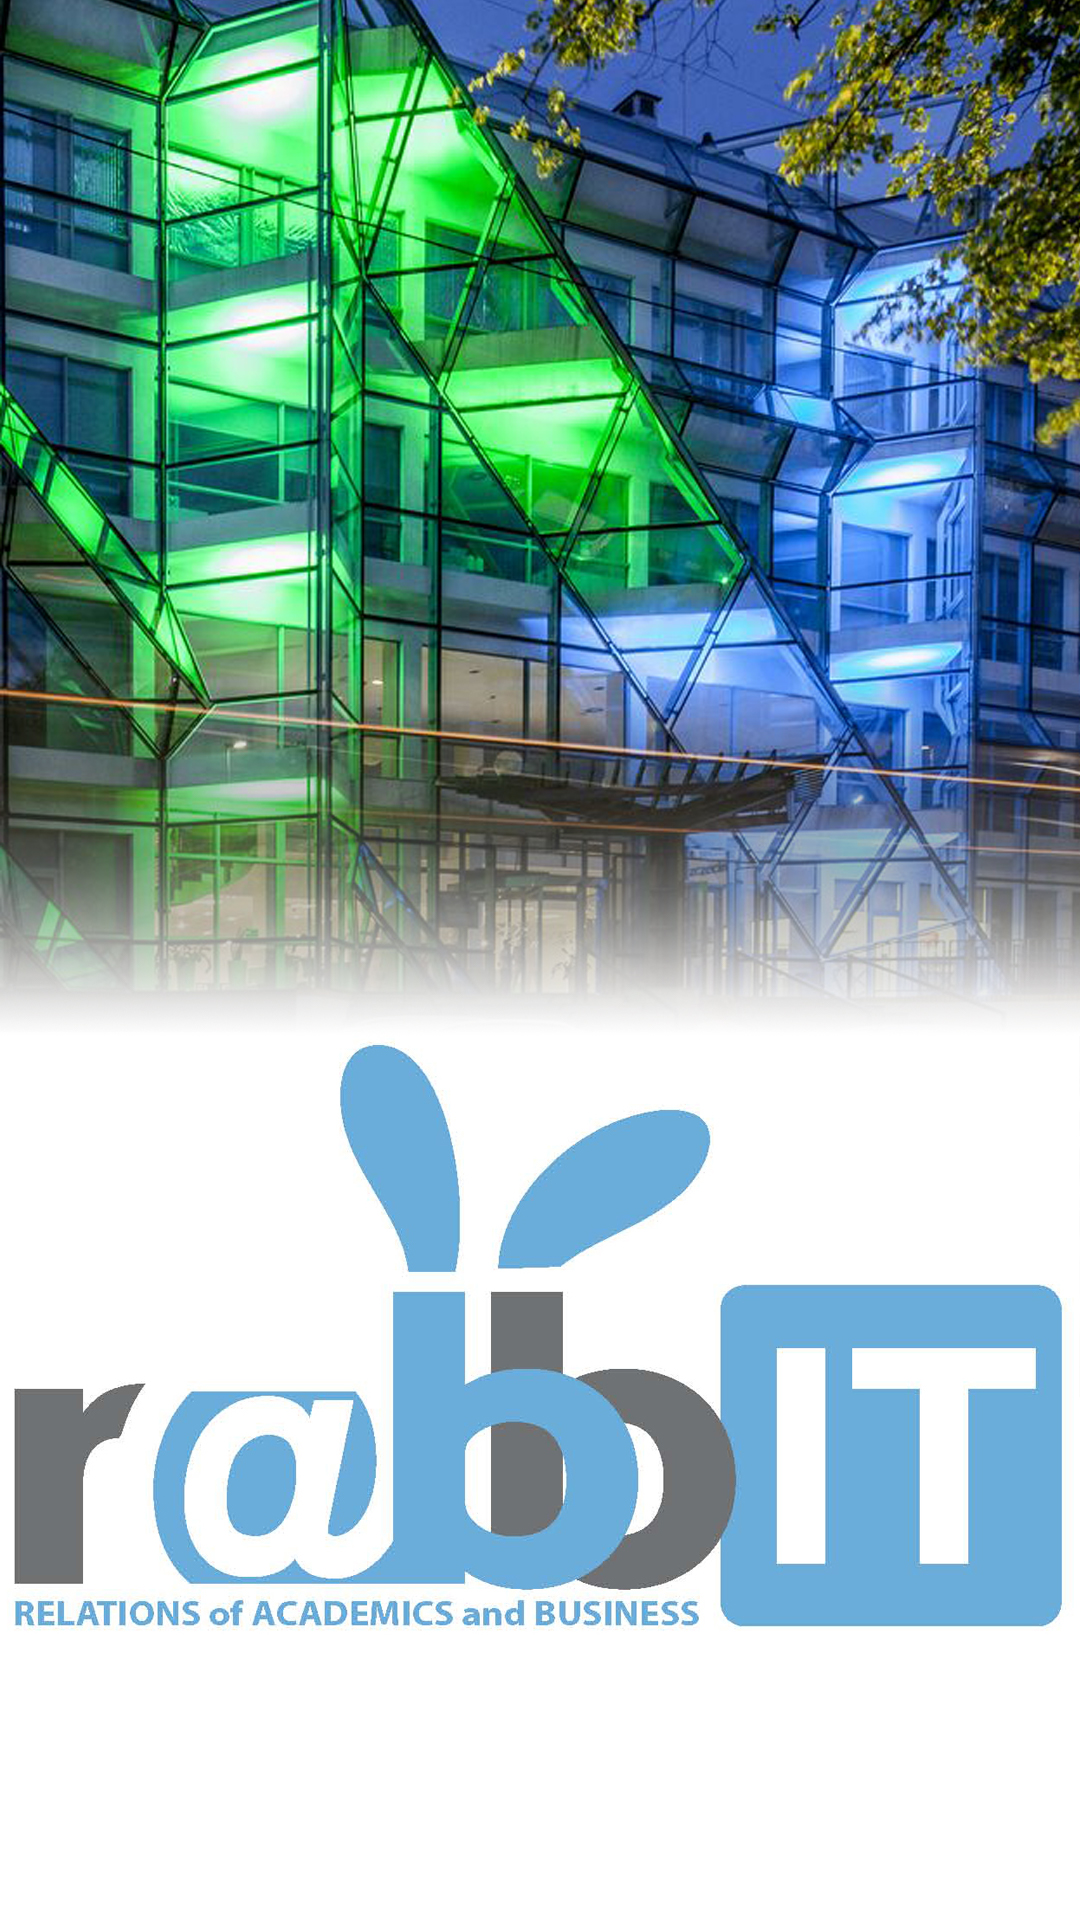
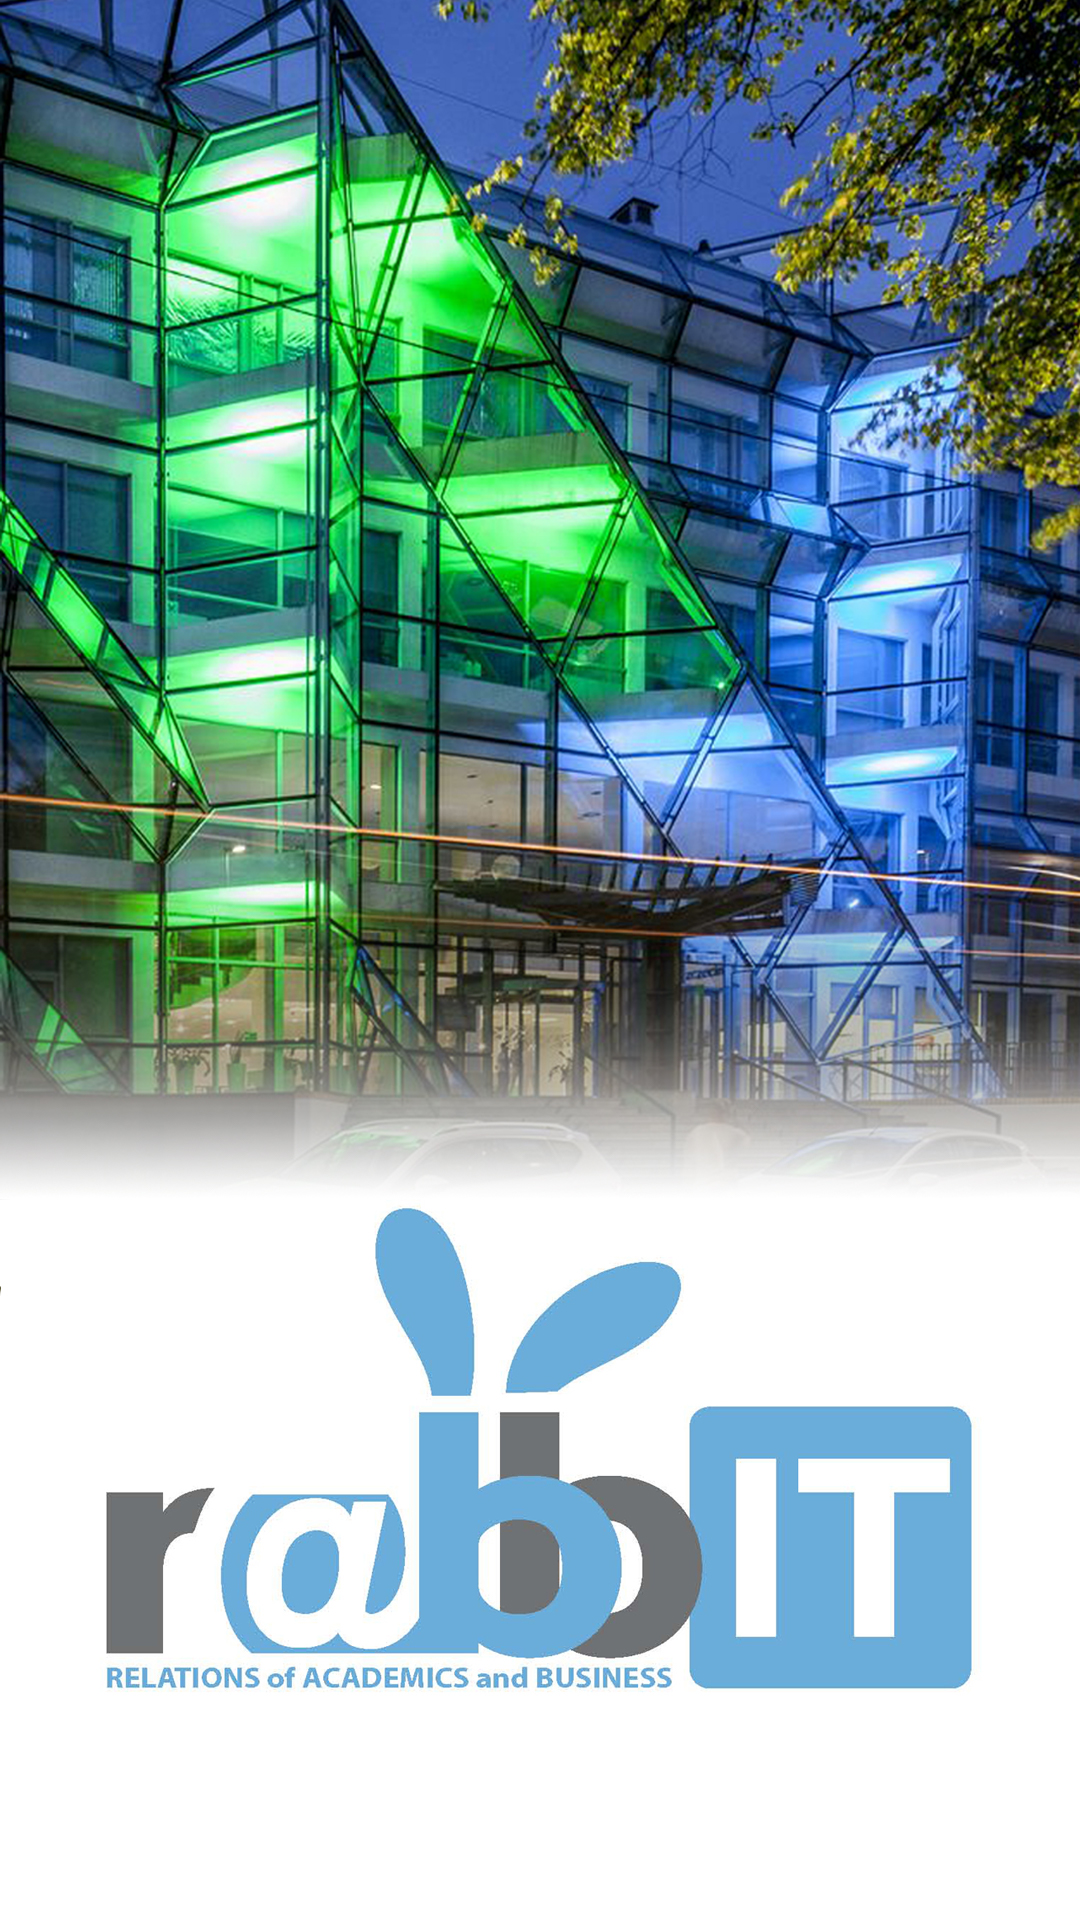
upiększenie przycisku wyszukiwania

diff --git a/aplikacja/lib/pages/home_page.dart b/aplikacja/lib/pages/home_page.dart
@@ -1,3 +1,4 @@
+import 'package:Hive/styles/hive_colors.dart';
 import 'package:Hive/widgets/event_type_grid.dart';
 import 'package:flutter/material.dart';
 import '../database/database_helper.dart';
@@ -36,14 +37,12 @@ class _HomePageState extends State<HomePage> {
   @override
   void initState() {
     super.initState();
-    SystemChrome.setEnabledSystemUIMode(
-      SystemUiMode.manual,
-        overlays: [SystemUiOverlay.bottom]
-    );
+    SystemChrome.setEnabledSystemUIMode(SystemUiMode.manual,
+        overlays: [SystemUiOverlay.bottom]);
+    isSearching = false;
     _fetchAllEvents(); // Wywołanie funkcji pobierającej dane
     _loadRecentSearches(); //pobranie poprzednich wyszukiwań
   }
-
 
   // Pobieranie wydarzeń z bazy
   Future<void> _fetchAllEvents() async {
@@ -69,14 +68,13 @@ class _HomePageState extends State<HomePage> {
   void sortEventsByPrice(bool ascending) {
     setState(() {
       events.sort((a, b) =>
-      ascending ? a.cena.compareTo(b.cena) : b.cena.compareTo(a.cena));
+          ascending ? a.cena.compareTo(b.cena) : b.cena.compareTo(a.cena));
     });
   }
 
   void sortEventsByParticipants(bool ascending) {
     setState(() {
-      events.sort((a, b) =>
-      ascending
+      events.sort((a, b) => ascending
           ? a.registeredParticipants.compareTo(b.registeredParticipants)
           : b.registeredParticipants.compareTo(a.registeredParticipants));
     });
@@ -84,9 +82,9 @@ class _HomePageState extends State<HomePage> {
 
   void sortEventsByDate(bool ascending) {
     setState(() {
-      events.sort((a, b) =>
-      ascending ? a.startDate.compareTo(b.startDate) : b
-          .startDate.compareTo(a.startDate));
+      events.sort((a, b) => ascending
+          ? a.startDate.compareTo(b.startDate)
+          : b.startDate.compareTo(a.startDate));
     });
   }
 
@@ -128,9 +126,9 @@ class _HomePageState extends State<HomePage> {
                         builder: (BuildContext context) {
                           return EventTypeGrid(
                               onEventTypeSelected: (String typeFilter) {
-                                EventFilterService.filterEventsByType(
-                                    context, events, typeFilter);
-                              });
+                            EventFilterService.filterEventsByType(
+                                context, events, typeFilter);
+                          });
                         });
                   }),
               ListTile(
@@ -196,8 +194,8 @@ class _HomePageState extends State<HomePage> {
                         : null,
                     trailing: selectedSortingType == 1
                         ? Icon(sortingAscending
-                        ? Icons.arrow_drop_up
-                        : Icons.arrow_drop_down)
+                            ? Icons.arrow_drop_up
+                            : Icons.arrow_drop_down)
                         : null,
                     onTap: () {
                       setModalState(() {
@@ -219,8 +217,8 @@ class _HomePageState extends State<HomePage> {
                         : null,
                     trailing: selectedSortingType == 2
                         ? Icon(sortingAscending
-                        ? Icons.arrow_drop_up
-                        : Icons.arrow_drop_down)
+                            ? Icons.arrow_drop_up
+                            : Icons.arrow_drop_down)
                         : null,
                     onTap: () {
                       setModalState(() {
@@ -242,8 +240,8 @@ class _HomePageState extends State<HomePage> {
                         : null,
                     trailing: selectedSortingType == 3
                         ? Icon(sortingAscending
-                        ? Icons.arrow_drop_up
-                        : Icons.arrow_drop_down)
+                            ? Icons.arrow_drop_up
+                            : Icons.arrow_drop_down)
                         : null,
                     onTap: () {
                       setModalState(() {
@@ -274,7 +272,7 @@ class _HomePageState extends State<HomePage> {
       _selectedFromBottomBar = index;
       switch (_selectedFromBottomBar) {
         case 0:
-        // Przejdź do strony głównej
+          // Przejdź do strony głównej
           Navigator.push(
             context,
             MaterialPageRoute(
@@ -283,10 +281,10 @@ class _HomePageState extends State<HomePage> {
           );
           break;
         case 1:
-        // Hive (nic nie robi)
+          // Hive (nic nie robi)
           break;
         case 2:
-        // Dodawanie wydarzenia
+          // Dodawanie wydarzenia
           Navigator.push(
             context,
             MaterialPageRoute(
@@ -299,11 +297,11 @@ class _HomePageState extends State<HomePage> {
           );
           break;
         case 3:
-        // Filtrowanie
+          // Filtrowanie
           showFilterModalBottomSheet();
           break;
         case 4:
-        // Profil użytkownika
+          // Profil użytkownika
           Navigator.push(
             context,
             MaterialPageRoute(
@@ -318,60 +316,77 @@ class _HomePageState extends State<HomePage> {
   @override
   Widget build(BuildContext context) {
     return Scaffold(
-      appBar: AppBar(
-        backgroundColor: Colors.amber,
-        title: isSearching
-            ? TextField(
-          controller: _searchController,
-          decoration: InputDecoration(
-            hintText: "Szukaj...",
-            border: OutlineInputBorder(
-              borderRadius: BorderRadius.circular(24),
-              borderSide: BorderSide.none,
-            ),
-            filled: true,
-            fillColor: Colors.white.withValues(alpha: 0.8),
-            contentPadding: EdgeInsets.symmetric(horizontal: 16),
-            suffixIcon: IconButton(
-                icon: Icon(Icons.clear, color: Colors.black),
-                onPressed: _toggleSearch,
+      appBar: isSearching
+          ? AppBar(
+              backgroundColor: Colors.transparent,
+              title: isSearching
+                  ? TextField(
+                      controller: _searchController,
+                      decoration: InputDecoration(
+                        hintText: "Szukaj...",
+                        border: OutlineInputBorder(
+                          borderRadius: BorderRadius.circular(24),
+                          borderSide: BorderSide.none,
+                        ),
+                        filled: true,
+                        fillColor: Colors.white.withValues(alpha: 0.8),
+                        contentPadding: EdgeInsets.symmetric(horizontal: 16),
+                        suffixIcon: IconButton(
+                          icon: Icon(Icons.clear, color: Colors.black),
+                          onPressed: _toggleSearch,
+                        ),
+                      ),
+                      onSubmitted: _onSearch,
+                    )
+                  : const Text('Strona Główna'),
+              actions: [
+                if (!isSearching)
+                  IconButton(
+                    onPressed: _toggleSearch,
+                    icon: Icon(Icons.search),
+                  )
+              ],
+            )
+          : null,
+      body: Stack(
+        children: [
+          // Główna zawartość strony
+          events.isEmpty
+              ? const Center(child: CircularProgressIndicator())
+              : RefreshIndicator(
+            onRefresh: _fetchAllEvents,
+            child: PageView.builder(
+              scrollDirection: Axis.vertical,
+              itemCount: events.length,
+              itemBuilder: (context, index) {
+                final event = events[index];
+                return EventCard(
+                  event: event,
+                  onUpdate: (updatedEvent) {
+                    setState(() {
+                      events[index] = updatedEvent;
+                    });
+                  },
+                );
+              },
             ),
           ),
-          onSubmitted: _onSearch,
-        )
-            : const Text('Strona Główna'),
-        actions: [
+
+          // FloatingActionButton w prawym górnym rogu
           if (!isSearching)
-            IconButton(
-              onPressed: _toggleSearch,
-              icon: Icon(Icons.search),
-            )
+            Positioned(
+              top: 50,
+              right: 16,
+              child: FloatingActionButton.small(
+                onPressed: _toggleSearch,
+                backgroundColor: Colors.amber,
+                shape: const CircleBorder(),
+                child: const Icon(Icons.search, color: Colors.black),
+              ),
+            ),
         ],
       ),
-      body: events.isEmpty
-          ? const Center(
-        child:
-        CircularProgressIndicator(), // Wyświetlanie ładowania, jeśli lista jest pusta
-      )
-          : RefreshIndicator(
-        onRefresh: _fetchAllEvents, // Funkcja do odświeżania
-        child: PageView.builder(
-          scrollDirection: Axis.vertical,
-          itemCount: events.length, // Liczba wydarzeń
-          itemBuilder: (context, index) {
-            final event =
-            events[index]; // Pobranie konkretnego wydarzenia
-            return EventCard(
-              event: event,
-              onUpdate: (updatedEvent) {
-                setState(() {
-                  events[index] = updatedEvent; // Aktualizacja wydarzenia
-                });
-              },
-            );
-          },
-        ),
-      ),
+
       bottomNavigationBar: BottomAppBar(
         height: 80,
         color: Colors.white,
@@ -387,10 +402,15 @@ class _HomePageState extends State<HomePage> {
               icon: Icon(Icons.hive, color: Colors.black),
             ),
             FloatingActionButton(
-              onPressed: () => _onBarTapped(2), // Dodawanie wydarzenia
+              onPressed: () => _onBarTapped(2),
+              // Dodawanie wydarzenia
               backgroundColor: Colors.amber,
-              elevation: 10.0, // Wysokość unoszeinie się przycisku - tworzenie cienia
-              child: Icon(Icons.add, size: 28,),
+              elevation: 10.0,
+              // Wysokość unoszeinie się przycisku - tworzenie cienia
+              child: Icon(
+                Icons.add,
+                size: 28,
+              ),
             ),
             IconButton(
               onPressed: () => _onBarTapped(3), // Filtry

diff --git a/aplikacja/lib/pages/filtered_list_page.dart b/aplikacja/lib/pages/filtered_list_page.dart
@@ -183,6 +183,7 @@ class _FilteredListPageState extends State<FilteredListPage> {
         onPressed: showSortingModalBottomSheet,
         child: const Icon(Icons.import_export),
         backgroundColor: Colors.amber,
+
       ),
     );
   }
